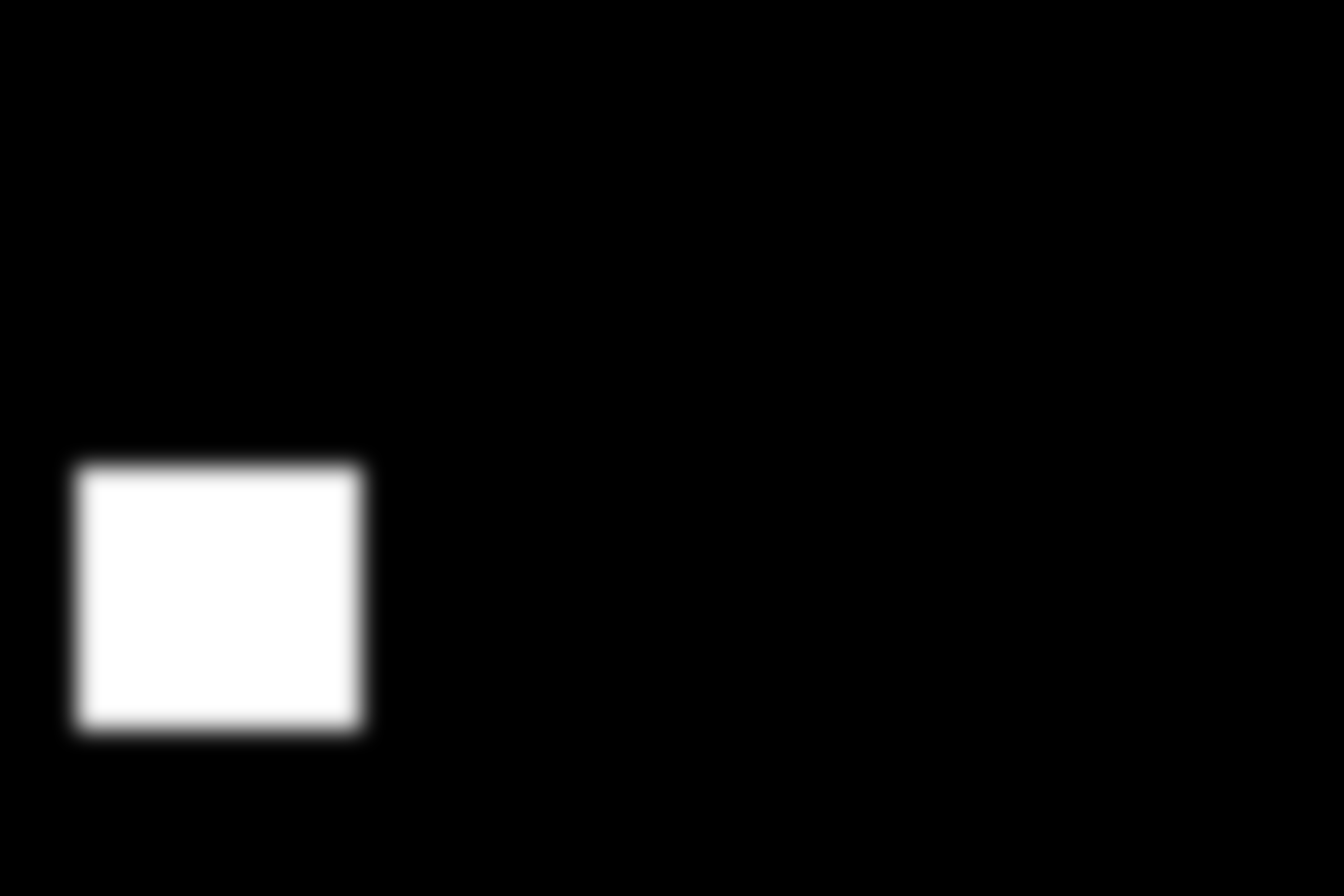
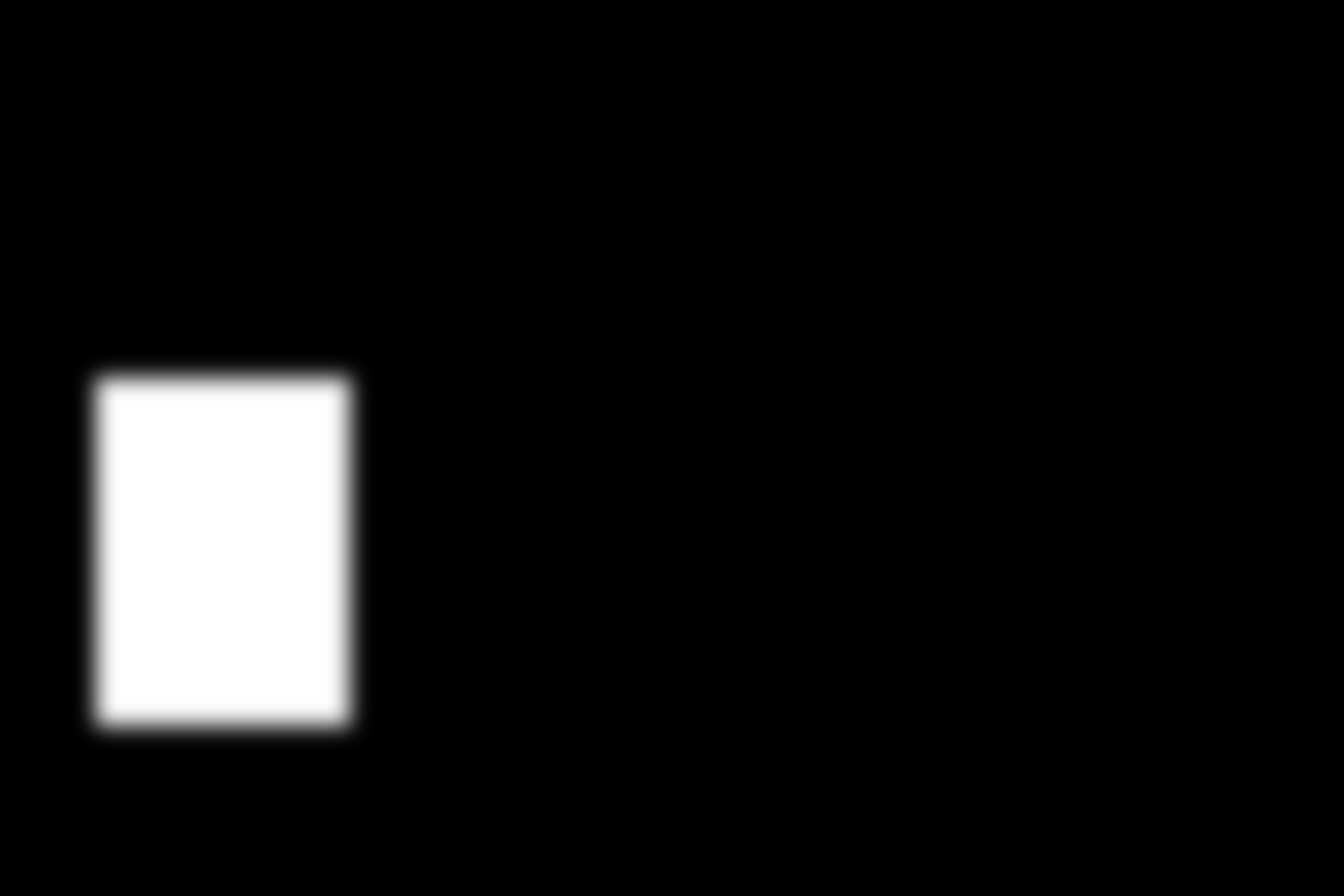
4. Inpainter, Masker, and Prompter for testing

Changed region(s): [[0.0312, 0.4062, 0.2812, 0.8438]]

diff --git a/inpainter.py b/inpainter.py
@@ -1,36 +1,47 @@
 import os
 import logging
+from PIL import Image
 
-def inpainter(images_directory):
+def inpainter(images_directory, pipe):
     if os.path.exists(images_directory):
-        if os.path.exists(images_directory + '/masks'):
+        if os.path.exists(images_directory + '/masks') and os.path.exists(images_directory + '/prompts'):
             images = os.listdir(images_directory)
             for image_n in images:
-                if image_n != "masks" and image_n != '.DS_Store' and image_n != 'error.log':
+                if image_n != "masks" and image_n != '.DS_Store' and image_n != 'error.log' and image_n != 'prompts':
                     name = image_n[:-4]
-                    if os.path.exists(f"{images_directory}/{name}.png") and os.path.exists(f"{images_directory}/masks/{name}_mask.png"):
-                        print(f"image:  {images_directory}/{name}.png\nmask:    {images_directory}/masks/{name}_mask.png")
+                    if os.path.exists(f"{images_directory}/{name}.png") and os.path.exists(f"{images_directory}/masks/{name}_mask.png")\
+                            and os.path.exists(f"{images_directory}/prompts/{name}.txt"):
+                        print(f"image:  {images_directory}/{name}.png\nmask:    {images_directory}/masks/{name}_mask.png\nprompt:    {images_directory}/prompts/{name}.txt")
 
-                        # image_output = pipe(prompt=prompt,
-                        #                     image=background,
-                        #                     mask_image=mask,
-                        #                     width=background.size[0],
-                        #                     height=background.size[1],
-                        #                     negative_prompt=negative_prompt,
-                        #                     strength=strength,
-                        #                     num_inference_steps=num_inference_steps,
-                        #                     guidance_scale=guidance_scale
-                        #                     ).images[0]
-                        # image_output.save(f'output/{name}_out.png')
+                        with open(f"{images_directory}/prompts/{name}.txt", 'r') as file:
+                            prompt = file.readline()
+                        background = Image.open(f"{images_directory}/{name}.png")
+                        negative_prompt = ""
+                        mask = Image.open(f"{images_directory}/masks/{name}_mask.png")
+
+                        image_output = pipe(prompt=prompt,
+                                             image=background,
+                                             mask_image=mask,
+                                             width=background.size[0],
+                                             height=background.size[1],
+                                            negative_prompt=negative_prompt,
+                                            strength=1,
+                                            num_inference_steps=20,
+                                            guidance_scale=10
+                                            ).images[0]
+                        image_output.save(f'output/{name}_out.png')
+
                     else:
+                        os.chdir('..')
                         logging.basicConfig(filename='error.log', level=logging.ERROR)
                         raise Exception(f"missing mask for {name}.png")
 
         else:
+            os.chdir('..')
             logging.basicConfig(filename='error.log', level=logging.ERROR)
             raise Exception(f"'masks' folder does not exist")
     else:
+        os.chdir('..')
         logging.basicConfig(filename='error.log', level=logging.ERROR)
         raise Exception(f"directory '{images_directory}' does not exist")
 
-inpainter('images')

diff --git a/masker.py b/masker.py
@@ -12,7 +12,7 @@ def masker(images_directory):
                 os.mkdir('masks')
             images = os.listdir()
             for image_n in images:
-                if image_n != "masks" and image_n != '.DS_Store' and image_n != 'error.log':
+                if image_n != "masks" and image_n != '.DS_Store' and image_n != 'error.log' and image_n != "prompts":
                     image = pil_Image.open(image_n)
                     width, height = image.size
                     win = GraphWin(image_n, width, height)

diff --git a/nuts.py b/nuts.py
@@ -1,0 +1,10 @@
+import sys
+
+def nuts(number: int):
+    number = int(number)
+    print(number**2)
+
+if __name__ == "__main__":
+    inp = "".join(sys.argv[1:])
+    # Cnuts(sys.argv)
+    nuts(inp)
